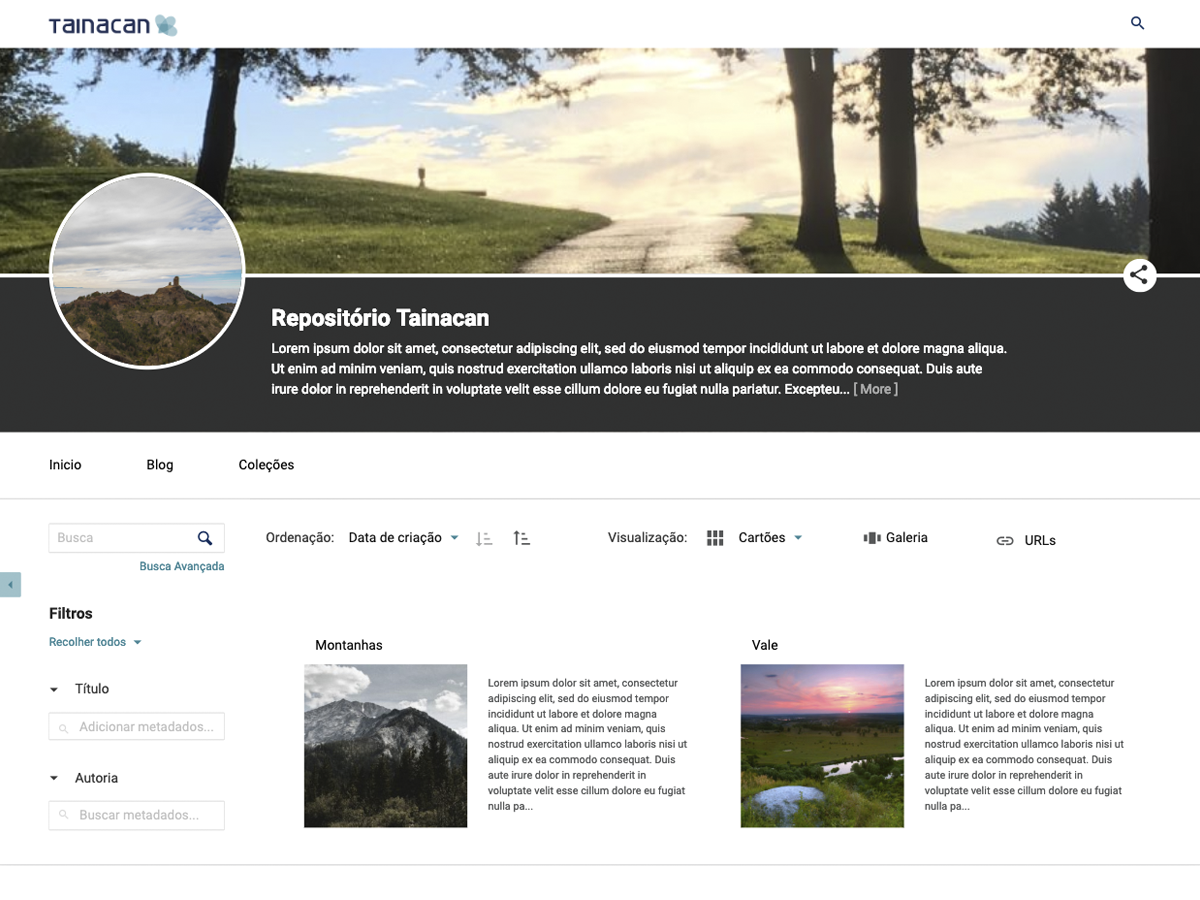
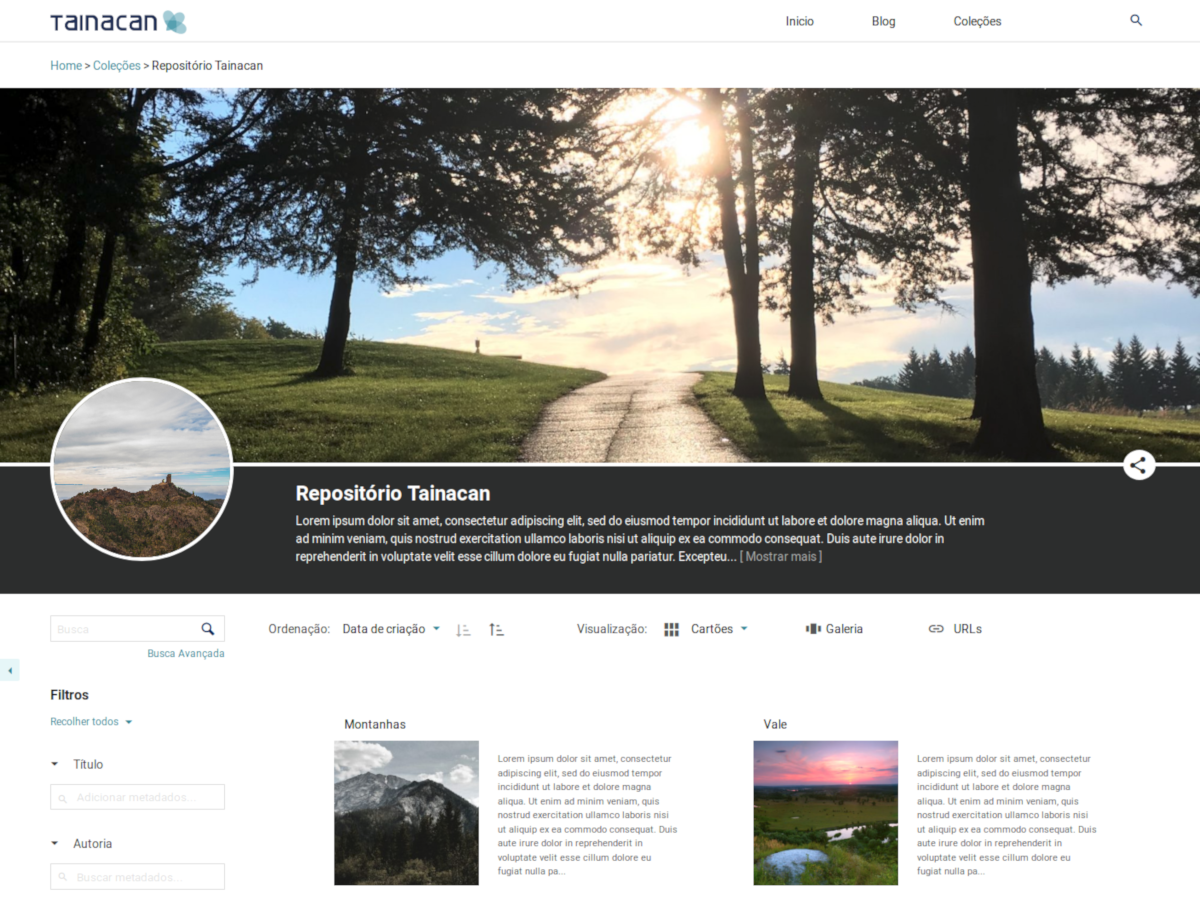
Updates theme thumbnail with current layout. Small space adjustment on collection header.

diff --git a/src/assets/scss/_home-collection.scss b/src/assets/scss/_home-collection.scss
@@ -58,7 +58,7 @@
         }
     }
     .t-collection--info {
-        padding-top: 6px;
+        padding-top: 10px;
         justify-content: space-between;
 
         .t-collection--col-9 {
